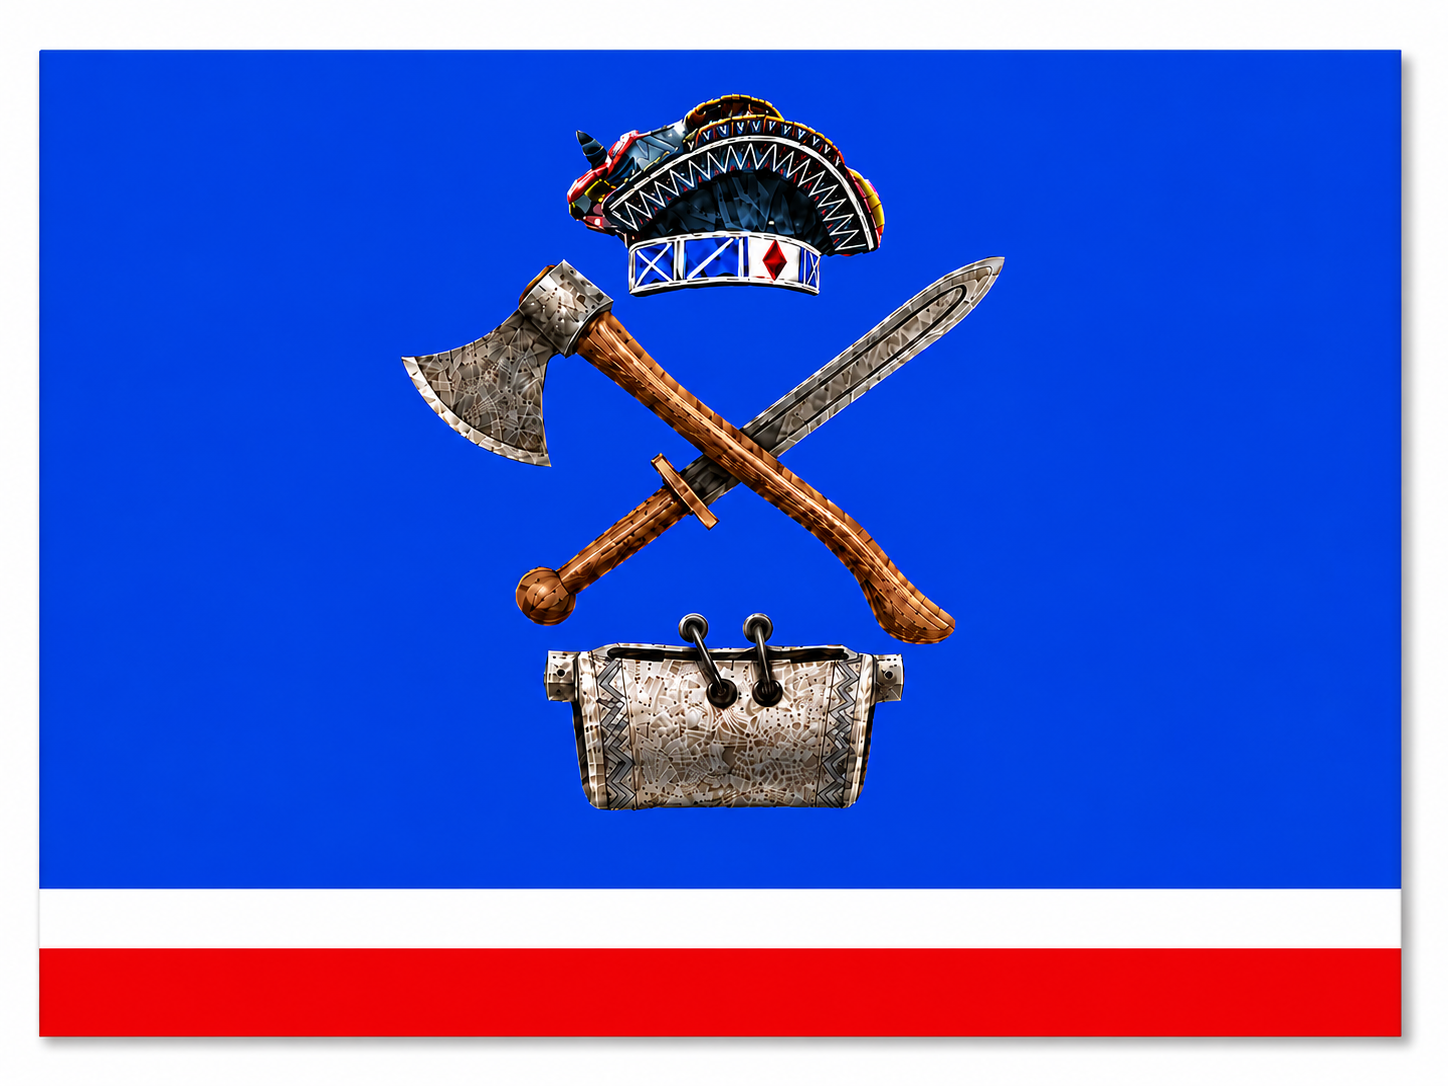
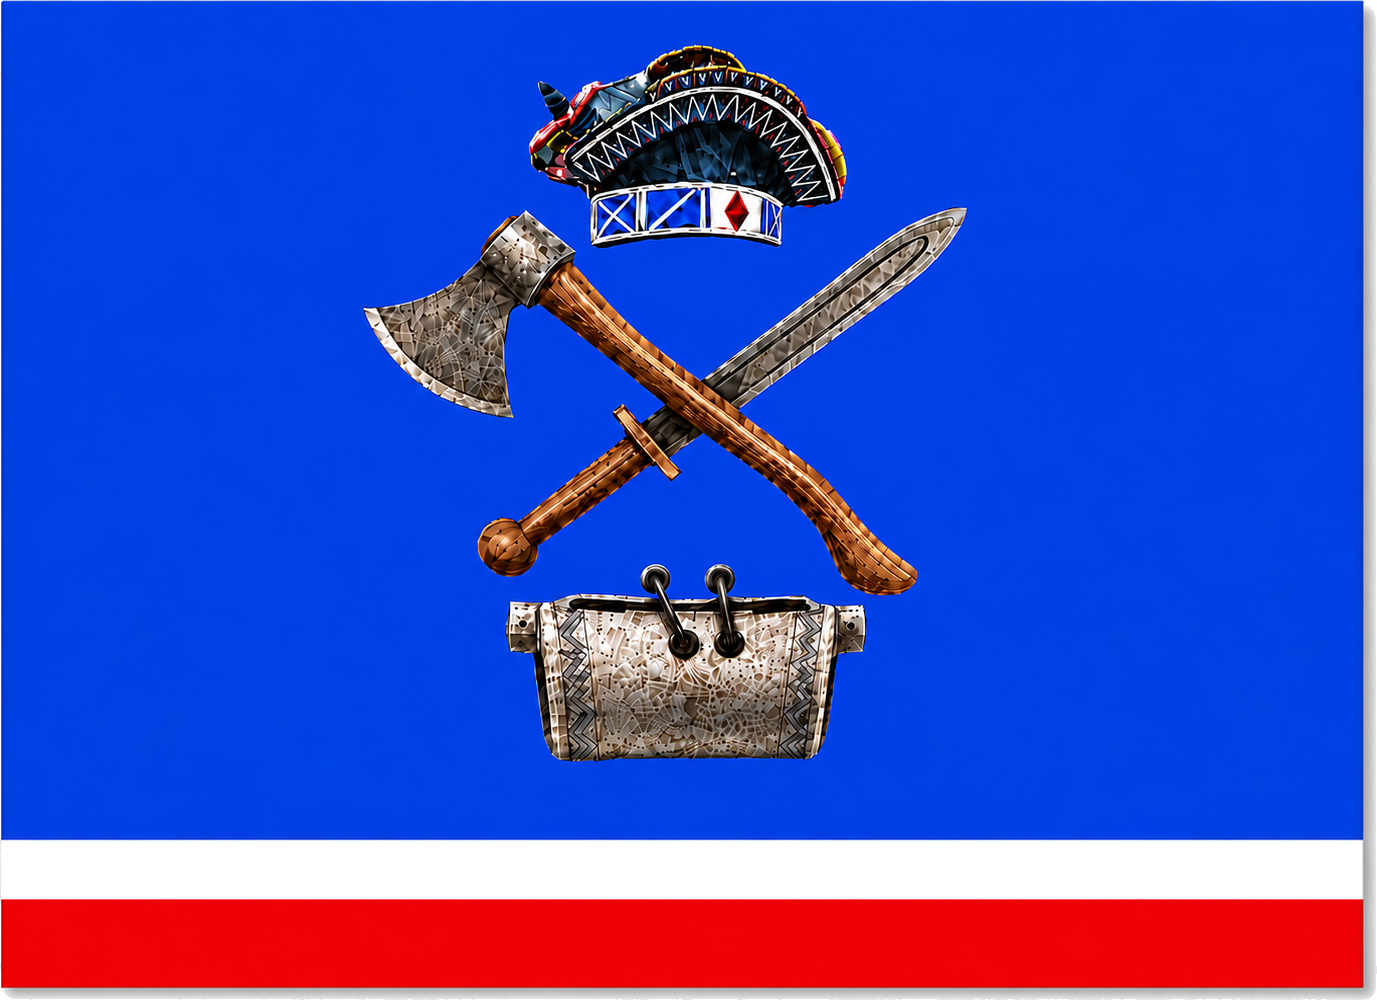
Clean up flag rendering and distinguish past Mwata from the reigning Mwata
Flag:
- Make the flag background transparent (border flood-fill, preserving the
  internal white stripe) and trim margins -> no more white box around the flag
  in the splash and Kingdom at a Glance
- Replace the blocky 2D canvas wave with a crisp flag image and a subtle,
  dignified 3D sway (CSS); respects prefers-reduced-motion
- Container-level borders/padding so the transparent flag sits cleanly on blue

Mwata identity:
- The beaded-regalia photo is a PAST Mwata, not the reigning Mwata; relabel it
  'A past Mwata Kazembe at a traditional ceremony' and move it out of the
  reigning Mwata's profile into the Historical continuity group (category archive)
- Stop the white-attire photo implying the current officeholder: 'A Mwata
  Kazembe during the Mutomboko ceremony' (kept in the Mutomboko gallery)
- Historical continuity deck now states these are distinct from the reigning Mwata

diff --git a/src/image-credits.js b/src/image-credits.js
@@ -283,18 +283,18 @@ export const imageCredits = [
     id: "mwata-beaded-crown",
     fileName: "mwata-beaded-crown.jpg",
     src: "assets/images/kazembe/mwata/mwata-beaded-crown.jpg",
-    title: "His Royal Highness the Mwata Kazembe at a traditional ceremony",
+    title: "A past Mwata Kazembe at a traditional ceremony",
     description:
-      "His Royal Highness the Mwata Kazembe at a traditional Kingdom ceremony, seated among senior members of the royal court.",
+      "A past Mwata Kazembe at a traditional Kingdom ceremony, among senior members of the royal court. This is a previous holder of the office — not the reigning Mwata Kazembe.",
     sourceName: "Supplied for the Kingdom website",
     sourceUrl: "",
     photographerOrCredit: "Source to be confirmed",
     dateAccessed: "2026-06-03",
     licenseOrUsageNote: "Image supplied for the project; original photographer and rights to be confirmed.",
-    altText: "His Royal Highness the Mwata Kazembe in royal regalia at a traditional ceremony.",
-    sectionUsedIn: "Office of the Mwata, Gallery",
-    category: "mwata",
-    imageType: "documentary",
+    altText: "A past Mwata Kazembe in royal regalia at a traditional ceremony.",
+    sectionUsedIn: "Office of the Mwata — Historical continuity, Gallery",
+    category: "archive",
+    imageType: "historical photograph",
     verificationStatus: "needs-confirmation",
     creditLine: "Supplied for the Kingdom website — source to be confirmed"
   },
@@ -302,16 +302,16 @@ export const imageCredits = [
     id: "mwata-white-ceremonial-dress",
     fileName: "mwata-white-ceremonial-dress.jpg",
     src: "assets/images/kazembe/mwata/mwata-white-ceremonial-dress.jpg",
-    title: "His Royal Highness the Mwata Kazembe during the Mutomboko ceremony",
+    title: "A Mwata Kazembe during the Mutomboko ceremony",
     description:
-      "His Royal Highness the Mwata Kazembe in the white ceremonial attire worn during the Mutomboko ceremony, bearing the royal fly-whisk, with a senior member of the royal court.",
+      "A Mwata Kazembe in the white ceremonial attire worn during the Mutomboko ceremony, bearing the royal fly-whisk, with a senior member of the royal court.",
     sourceName: "Supplied for the Kingdom website",
     sourceUrl: "",
     photographerOrCredit: "Source to be confirmed",
     dateAccessed: "2026-06-03",
     licenseOrUsageNote: "Image supplied for the project; original photographer and rights to be confirmed.",
-    altText: "His Royal Highness the Mwata Kazembe in white ceremonial attire during the Mutomboko ceremony.",
-    sectionUsedIn: "Office of the Mwata, Mutomboko Ceremony, Gallery",
+    altText: "A Mwata Kazembe in white ceremonial attire during the Mutomboko ceremony.",
+    sectionUsedIn: "Mutomboko Ceremony, Gallery",
     category: "ceremony",
     imageType: "documentary",
     verificationStatus: "needs-confirmation",

diff --git a/src/app.js b/src/app.js
@@ -228,10 +228,6 @@ function renderMwata() {
             <ul>${mwataProfile.biography.map((b) => `<li>${esc(b)}</li>`).join("")}</ul>
           </div>
         </div>
-        <div class="media-figure-grid">
-          ${creditFigureCard("mwata-white-ceremonial-dress")}
-          ${creditFigureCard("mwata-beaded-crown")}
-        </div>
       </section>
       <section class="subsection accordion-block" id="mwata-household">
         <button class="accordion-trigger" type="button" aria-expanded="false">Royal Household</button>
@@ -248,11 +244,12 @@ function renderMwata() {
       </section>
       <section class="subsection" id="mwata-continuity">
         ${sectionHead("Historical continuity", "Past Mwatas and Royal Occasions")}
-        <p class="section-deck">Selected historical photographs connected to the office of the Mwata Kazembe. Where a photograph is firmly identified, the officeholder and dates are named; remaining identifications are held pending official confirmation.</p>
-        <div class="media-figure-grid media-figure-grid-3">
+        <p class="section-deck">These photographs record earlier holders of the office of the Mwata Kazembe and past royal occasions — distinct from the reigning Mwata shown above. Where a photograph is firmly identified, the officeholder and dates are named; other identifications are held pending official confirmation.</p>
+        <div class="media-figure-grid">
           ${creditFigureCard("archive-mwata-xi-kapakata")}
           ${creditFigureCard("archive-mwata-staff-of-office")}
           ${creditFigureCard("archive-royal-ceremony-colonial")}
+          ${creditFigureCard("mwata-beaded-crown")}
         </div>
       </section>
       <section class="subsection accordion-block" id="mwata-palace">

diff --git a/src/splash.css b/src/splash.css
@@ -35,14 +35,21 @@
   transform: translateY(0);
 }
 
-/* Canvas waving flag */
-#splash-canvas {
+/* Waving flag (clean image with gentle sway) */
+#splash-flag {
   display: block;
-  border-radius: 2px;
-  box-shadow: 0 6px 32px rgba(0, 0, 0, 0.45);
-  max-width: min(340px, 86vw);
-  width: min(340px, 86vw);
+  width: min(320px, 80vw);
   height: auto;
+  filter: drop-shadow(0 12px 30px rgba(0, 0, 0, 0.5));
+  transform-origin: center;
+  animation: splash-flag-wave 4.5s ease-in-out infinite;
+  will-change: transform;
+  backface-visibility: hidden;
+}
+
+@keyframes splash-flag-wave {
+  0%, 100% { transform: perspective(900px) rotateY(-5.5deg) skewY(0.5deg); }
+  50%      { transform: perspective(900px) rotateY(5.5deg) skewY(-0.5deg); }
 }
 
 /* Text messages */
@@ -102,5 +109,5 @@
   #splash { transition: none; }
   #splash-coa { transition: none; opacity: 0.92; transform: none; }
   .splash-msg { transition: none; opacity: 1; transform: none; }
-  #splash-canvas { display: none; }
+  #splash-flag { animation: none; transform: none; }
 }

diff --git a/src/styles.css b/src/styles.css
@@ -1548,15 +1548,19 @@ h3 {
   margin: 0;
 }
 
+.glance-media .figure-media {
+  border: 1px solid var(--border);
+}
+
 .glance-media .figure-media img {
   width: 100%;
   height: auto;
   display: block;
-  border: 1px solid var(--border);
 }
 
 .glance-flag .figure-media {
   background: var(--royal-blue);
+  padding: 0.75rem;
 }
 
 .glance-map {
@@ -1570,13 +1574,14 @@ h3 {
 
 .identity-figure .figure-media {
   background: var(--royal-blue);
+  border: 1px solid var(--border);
+  padding: 0.85rem;
 }
 
 .identity-figure .figure-media img {
   width: 100%;
   height: auto;
   display: block;
-  border: 1px solid var(--border);
 }
 
 .figure-credit,

diff --git a/index.html b/index.html
@@ -28,7 +28,10 @@
       src="assets/images/kazembe/identity/coat-of-arms.png"
       alt="Mwata Kazembe Coat of Arms"
       width="64" height="64">
-    <canvas id="splash-canvas" width="340" height="255" aria-hidden="true"></canvas>
+    <img id="splash-flag"
+      src="assets/images/kazembe/identity/flag.png"
+      alt="Flag of the Mwata Kazembe Kingdom"
+      aria-hidden="true">
     <div class="splash-messages">
       <span class="splash-msg" data-i="0">Mwaiseni Mwane</span>
       <span class="splash-msg" data-i="1">You Are Welcome</span>
